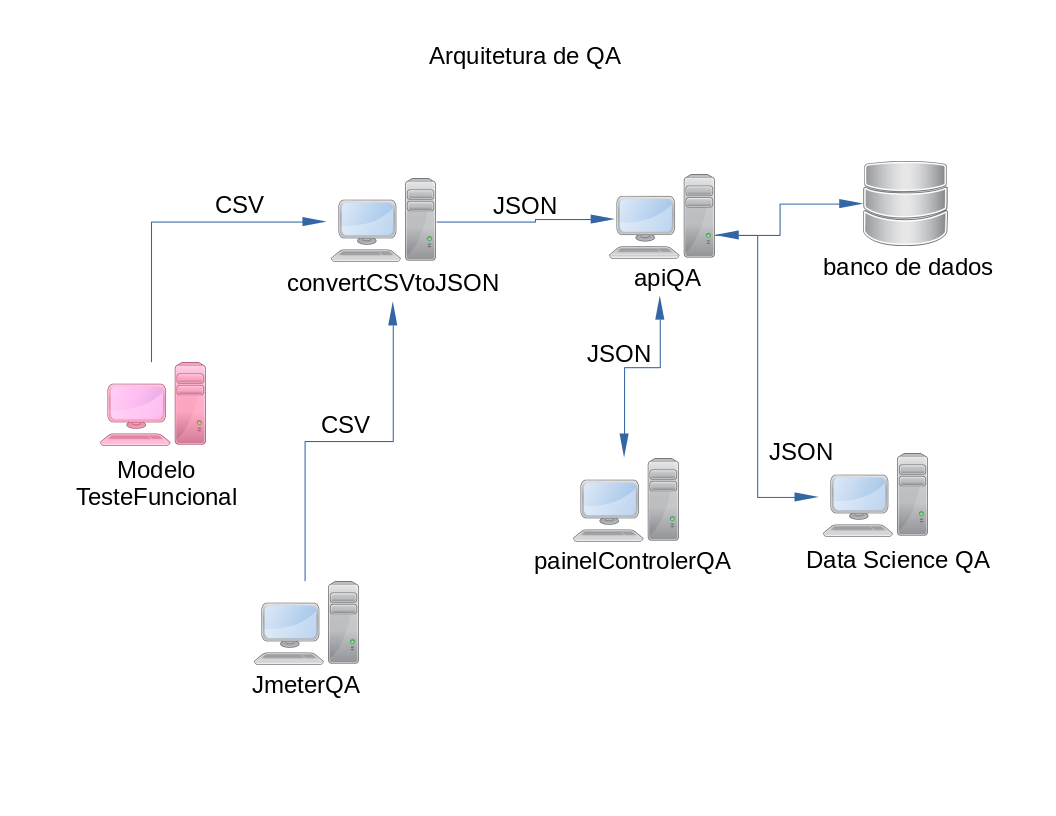
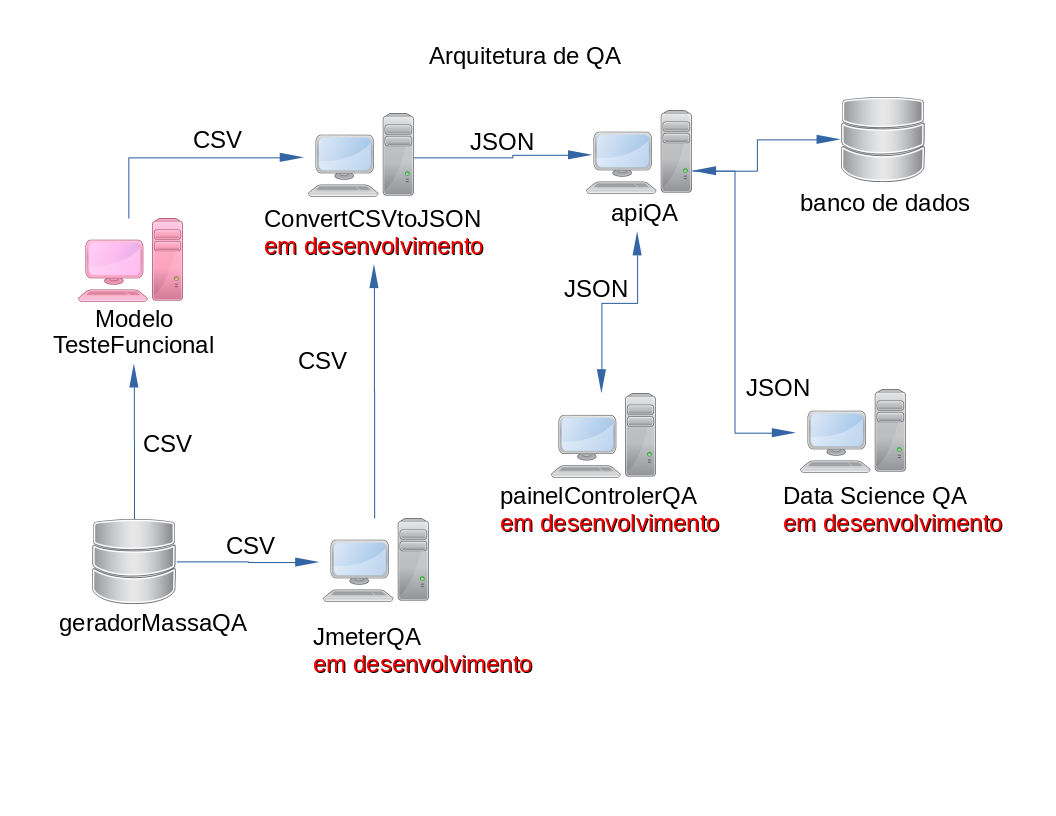
diagrama

diff --git a/src/test/java/relatorio/ManipularCsv.java b/src/test/java/relatorio/ManipularCsv.java
@@ -37,7 +37,7 @@ public class ManipularCsv {
 			String data = new SimpleDateFormat("dd_MM_yyyy").format(dataHoraAtual);
 			String horario = new SimpleDateFormat("HH_mm").format(dataHoraAtual);
 			BufferedWriter pw = new BufferedWriter(new FileWriter(pathArquivo+ nomeClass + "_" + "" + data + "_"+horario+".csv"));
-			String array = "status,data,hora,nome_metodo,mensagem_erro";
+			String array = "status,data,hora,metodo,mensagem";
 			pw.append(array);
 			pw.append("\n");
 			pw.close();
@@ -53,7 +53,7 @@ public class ManipularCsv {
 	 * @param status
 	 * @param mensagemErro
 	 */
-	public void escreverCsv(String nomeMetodo, String status, String mensagemErro) {
+	public void escreverCsv(String metodo, String status, String erro) {
 		try {
 			Date dataHoraAtual = new Date();
 			String data = new SimpleDateFormat("dd-MM-yyyy").format(dataHoraAtual);
@@ -61,7 +61,7 @@ public class ManipularCsv {
 
 			File arquivo = new File(pathArquivo+getUltimoArquivoCsv());
 
-			String linha = status + "," + data + "," + hora + "," + nomeMetodo+","+mensagemErro;
+			String linha = status + "," + data + "," + hora + "," + metodo+","+erro;
 			PrintWriter csvWriter;
 			csvWriter = new  PrintWriter(new FileWriter(arquivo,true));
 			csvWriter.println(linha);

diff --git a/README.md b/README.md
@@ -36,15 +36,16 @@
 
 # Evidência de teste.
 
-> 	Sera criado na raiz do projeto a pasta FERRAMENTA_TESTE, onde sera criar uma arquivo CSV no termino da execução do teste,
-> 	No diretório é gerado arquivo no formato CSV com o resultados dos steps do teste.</br>
+> 	Sera criado na raiz do projeto a pasta FERRAMENTA_TESTE, onde sera criar uma arquivo CSV 
+> 	no termino da execução do teste.
+> 	No diretório é gerado arquivo no formato CSV com o resultados dos steps do teste.
 > 	Exemplo :
 
 > 	Status,Data,Hora,Nome Metodo, Mensagem Erro
 > 	OK,23-02-2020,01:32,setTxtPesquisar  
 
 > 	Nesse exemplo a coluna Mensagem ERRO está vazia, porquê, não deu erro na execução do teste.
-> 	Caso tenha dado errado, será preenchido com uma mensagem. </br>
+> 	Caso tenha dado errado, será preenchido com uma mensagem.
 > 	Exemplo : 
 
 > 	Status,Data,Hora,Nome Metodo, Mensagem Erro
@@ -82,4 +83,7 @@
 
 > __Teste Api QA__
 > [GitHub Pages](https://github.com/marcosregato/testeApiQA).</br>
+
+> __Gerador massa de dados QA__
+> [GitHub Pages](https://github.com/marcosregato/geradorMassaQA).</br>
 
